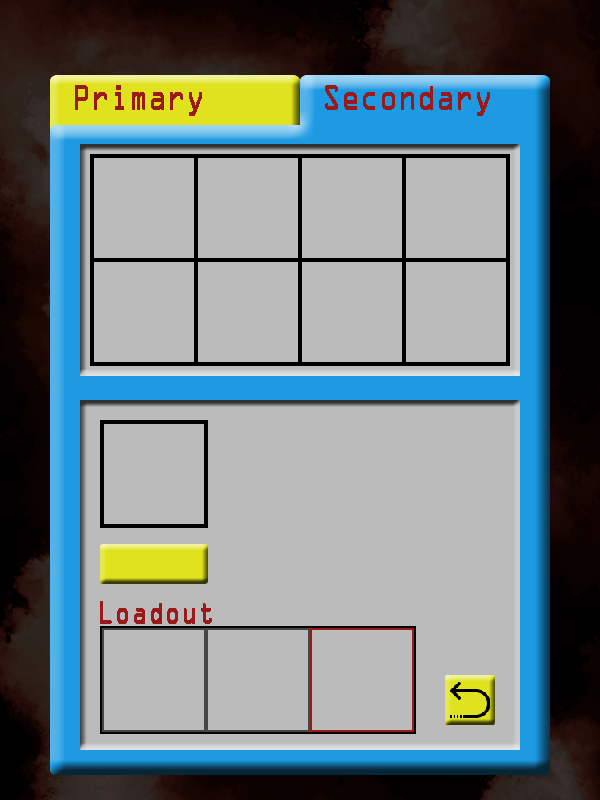
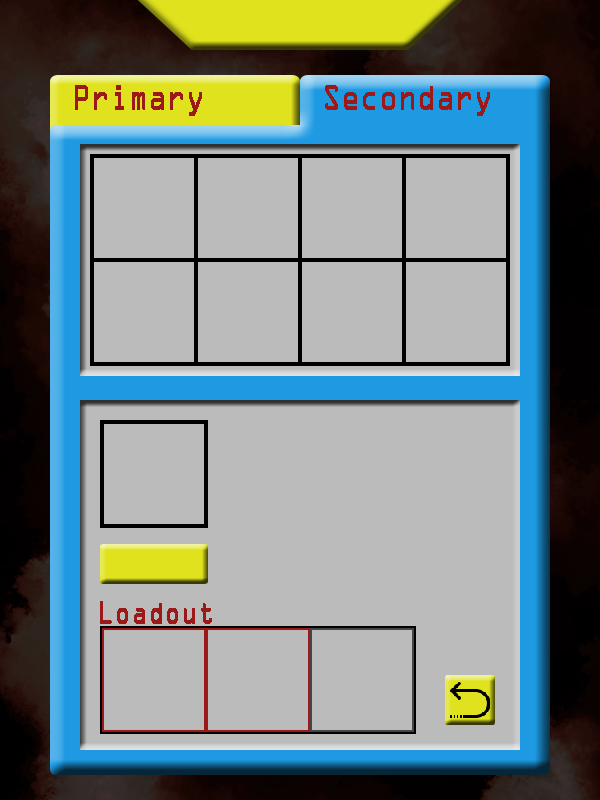
Eternity Quest (Loadout update)
Display gold in inventory menu
Loadout selection (for primary only)

diff --git a/js/eternityquest.js b/js/eternityquest.js
@@ -71,9 +71,11 @@ function init(){
     inventoryMenu.bgP = new Image();
     inventoryMenu.bgS = new Image();
     inventoryMenu.bgShop = new Image();
+    inventoryMenu.btnLoadout = new Image();
     assetManager.addAsset(inventoryMenu.bgP, "img/eternityquest/bg-inventory-p.png");
     assetManager.addAsset(inventoryMenu.bgS, "img/eternityquest/bg-inventory-s.png");
     assetManager.addAsset(inventoryMenu.bgShop, "img/eternityquest/bg-inventory-shop.png");
+    assetManager.addAsset(inventoryMenu.btnLoadout, "img/eternityquest/btn-loadout.png");
     
     weaponType = {
         PROJECTILE_BASIC: 0,
@@ -353,12 +355,12 @@ function Avatar(){
     this.deathStartTime;
     
     this.activeWeaponIndex;
-    this.loadout = [];
+    this.loadout = [null, null, null];
     this.inventoryP = [];
     this.inventoryS = [];
     
     this.cycleWeapons = function(){
-        if(activeWeaponIndex < this.inventory.length){
+        if(activeWeaponIndex < 1){
             activeWeaponIndex++;
         }
         else{
@@ -709,9 +711,11 @@ function InventoryMenu(){
     this.bgP;
     this.bgS;
     this.bgShop;
+    this.btnLoadout;
     this.tab = 1;
     this.selection = null;
     this.shopWindow = false;
+    this.goldXY = [300*sizeManager.factor, 30*sizeManager.factor];
     this.rectTab0 = [50*sizeManager.factor, 75*sizeManager.factor, 500*sizeManager.factor, 50*sizeManager.factor];
     this.rectTab1 = [50*sizeManager.factor, 75*sizeManager.factor, 250*sizeManager.factor, 50*sizeManager.factor];
     this.rectTab2 = [300*sizeManager.factor, 75*sizeManager.factor, 250*sizeManager.factor, 50*sizeManager.factor];
@@ -727,6 +731,20 @@ function InventoryMenu(){
     this.rectInfo = [104*sizeManager.factor, 424*sizeManager.factor];
     this.rectTxtX = 220*sizeManager.factor;
     this.rectTxtY = [434*sizeManager.factor, 460*sizeManager.factor, 485*sizeManager.factor, 510*sizeManager.factor, 535*sizeManager.factor];
+    this.rectLoad = [104*sizeManager.factor, 630*sizeManager.factor, 308*sizeManager.factor, 100*sizeManager.factor];
+    this.rectLoadX = [104*sizeManager.factor, 208*sizeManager.factor, 312*sizeManager.factor];
+    this.rectLoadY = 630*sizeManager.factor;
+    this.rectLoadW = 100*sizeManager.factor;
+    this.rectLoadBtn1R = [114*sizeManager.factor, 635*sizeManager.factor, 80*sizeManager.factor, 30*sizeManager.factor];
+    this.rectLoadBtn2R = [218*sizeManager.factor, 635*sizeManager.factor, 80*sizeManager.factor, 30*sizeManager.factor];
+    this.rectLoadBtn3R = [322*sizeManager.factor, 635*sizeManager.factor, 80*sizeManager.factor, 30*sizeManager.factor];
+    this.rectLoadBtn1E = [114*sizeManager.factor, 695*sizeManager.factor, 80*sizeManager.factor, 30*sizeManager.factor];
+    this.rectLoadBtn2E = [218*sizeManager.factor, 695*sizeManager.factor, 80*sizeManager.factor, 30*sizeManager.factor];
+    this.rectLoadBtn3E = [322*sizeManager.factor, 695*sizeManager.factor, 80*sizeManager.factor, 30*sizeManager.factor];
+    this.rectLoadBtnX = [114*sizeManager.factor, 218*sizeManager.factor, 322*sizeManager.factor, 114*sizeManager.factor, 218*sizeManager.factor, 322*sizeManager.factor];
+    this.rectLoadBtnY = [635*sizeManager.factor, 635*sizeManager.factor, 635*sizeManager.factor, 695*sizeManager.factor, 695*sizeManager.factor, 695*sizeManager.factor];
+    this.rectLoadBtnWH = [80*sizeManager.factor, 30*sizeManager.factor];
+    
     this.rectShopBack = [425*sizeManager.factor, 175*sizeManager.factor, 50*sizeManager.factor, 50*sizeManager.factor];
     this.rectShopIcon = [250*sizeManager.factor, 250*sizeManager.factor];
     this.rectShopTxtX = 300*sizeManager.factor;
@@ -754,6 +772,36 @@ function InventoryMenu(){
             }
         }
     };
+    this.loadoutEvent = function(i){
+        if(this.tab === 1){
+            switch (i){
+                case 0:
+                case 1:
+                    avatar.loadout[i] = null;
+                    break;
+                case 3:
+                case 4:
+                    if(avatar.inventoryP[this.selection] > 0){
+                        avatar.loadout[i-3] = weaponManager.weaponArrayP[this.selection];
+                        avatar.loadout[i-3].lvl = avatar.inventoryP[this.selection];
+                    }
+                    break;
+            }
+        }
+        else{
+            switch (i){
+                case 2:
+                    avatar.loadout[i] = null;
+                    break;
+                case 5:
+                    if(avatar.inventoryS[this.selection] > 0){
+                        avatar.loadout[i-3] = weaponManager.weaponArrayS[this.selection];
+                        avatar.loadout[i-3].lvl = avatar.inventoryS[this.selection];
+                    }
+                    break;
+            }
+        }
+    };
     this.manageClick = function(){
         //CHECK SHOP WINDOW
         if(this.shopWindow){
@@ -771,6 +819,11 @@ function InventoryMenu(){
             }
             if(ui.targetCollision(this.rectBtn)){
                 this.shopWindow = true;
+            }
+            for(var i = 0 ; i < 6 ; i++){
+                if(ui.targetCollision([this.rectLoadBtnX[i], this.rectLoadBtnY[i], this.rectLoadBtnWH[0], this.rectLoadBtnWH[1]])){
+                    this.loadoutEvent(i);
+                }
             }
         }
     };
@@ -819,17 +872,28 @@ function drawInventoryMenu(){
                         ctxTool.text("Tick Damage: " + weapon.tickDmg[weapon.lvl], inventoryMenu.rectTxtX, inventoryMenu.rectTxtY[2], 
                         "left", sizeManager.fontSizeXS, ctxTool.clrRed);
                         //TICK
-                        ctxTool.text("Tick: " + (1000/weapon.tickInterval[weapon.lvl]).toFixed(2) + "ms", inventoryMenu.rectTxtX, inventoryMenu.rectTxtY[3], 
+                        ctxTool.text("Tick: " + weapon.tickInterval[weapon.lvl] + "ms", inventoryMenu.rectTxtX, inventoryMenu.rectTxtY[3], 
                         "left", sizeManager.fontSizeXS, ctxTool.clrRed);
                         break;
                 }
                 //ctxTool.text("" + weapon.desc + "", inventoryMenu.rectTxtX, inventoryMenu.rectTxtY[3],"left", sizeManager.fontSizeXS, ctxTool.clrRed);
             }
         }
+        //LOADOUT
+        for(var i = 0 ; i < avatar.loadout.length ; i++){
+            var weapon = avatar.loadout[i];
+            if(weapon){
+                ctx.drawImage(weapon.icon, inventoryMenu.rectLoadX[i], inventoryMenu.rectLoadY, 
+                inventoryMenu.rectLoadW, inventoryMenu.rectLoadW);
+            }
+        }
     }
     else{
         ctx.drawImage(inventoryMenu.bgS, 0, 0, canvas.width, canvas.height);
     }
+    //GOLD
+    ctxTool.text("Gold: " + avatar.gold, inventoryMenu.goldXY[0], inventoryMenu.goldXY[1], 
+    "center", sizeManager.fontSizeS, ctxTool.clrRed);
         
     //CHECK SHOP WINDOW
     if(inventoryMenu.shopWindow){
@@ -837,8 +901,8 @@ function drawInventoryMenu(){
         //CHECK TAB
         if(inventoryMenu.tab === 1){
             var weapon = weaponManager.weaponArrayP[inventoryMenu.selection];
-            weapon.lvl = avatar.inventoryP[inventoryMenu.selection];
             if(weapon){
+                weapon.lvl = avatar.inventoryP[inventoryMenu.selection];
                 //ICON
                 ctx.drawImage(weapon.icon, inventoryMenu.rectShopIcon[0], inventoryMenu.rectShopIcon[0], 
                 inventoryMenu.rectItmW, inventoryMenu.rectItmW);
@@ -870,7 +934,7 @@ function drawInventoryMenu(){
                             ctxTool.text("Tick Damage: " + weapon.tickDmg[weapon.lvl], inventoryMenu.rectShopTxtX, inventoryMenu.rectShopTxtY[3], 
                             "center", sizeManager.fontSizeXS, ctxTool.clrBlack);
                             //TICK
-                            ctxTool.text("Tick: " + (1000/weapon.tickInterval[weapon.lvl]).toFixed(2) + "ms", inventoryMenu.rectShopTxtX, inventoryMenu.rectShopTxtY[4], 
+                            ctxTool.text("Tick: " + weapon.tickInterval[weapon.lvl] + "ms", inventoryMenu.rectShopTxtX, inventoryMenu.rectShopTxtY[4], 
                             "center", sizeManager.fontSizeXS, ctxTool.clrBlack);
                             break;
                     }
@@ -897,9 +961,9 @@ function drawInventoryMenu(){
                             ctxTool.text(" -> " + weapon.tickDmg[weapon.lvl+1], inventoryMenu.rectShopTxtX, inventoryMenu.rectShopTxtY[3], 
                             "left", sizeManager.fontSizeXS, ctxTool.clrRed);
                             //TICK
-                            ctxTool.text("Tick: " + (1000/weapon.tickInterval[weapon.lvl]).toFixed(2) + "ms", inventoryMenu.rectShopTxtX, inventoryMenu.rectShopTxtY[4], 
+                            ctxTool.text("Tick: " + weapon.tickInterval[weapon.lvl] + "ms", inventoryMenu.rectShopTxtX, inventoryMenu.rectShopTxtY[4], 
                             "right", sizeManager.fontSizeXS, ctxTool.clrBlack);
-                            ctxTool.text(" -> " + (1000/weapon.tickInterval[weapon.lvl+1]).toFixed(2) + "ms", inventoryMenu.rectShopTxtX, inventoryMenu.rectShopTxtY[4], 
+                            ctxTool.text(" -> " + weapon.tickInterval[weapon.lvl+1] + "ms", inventoryMenu.rectShopTxtX, inventoryMenu.rectShopTxtY[4], 
                             "left", sizeManager.fontSizeXS, ctxTool.clrRed);
                             break;
                     }
@@ -920,9 +984,27 @@ function drawInventoryMenu(){
     }
     else{
         //CHECK MOUSE TARGET COLLISIONS
+        if(ui.targetCollision(inventoryMenu.rectLoad)){
+            if(inventoryMenu.tab === 1){
+                ctx.drawImage(inventoryMenu.btnLoadout, inventoryMenu.rectLoadX[0], inventoryMenu.rectLoadY,
+                inventoryMenu.rectLoadW, inventoryMenu.rectLoadW);
+                ctx.drawImage(inventoryMenu.btnLoadout, inventoryMenu.rectLoadX[1], inventoryMenu.rectLoadY,
+                inventoryMenu.rectLoadW, inventoryMenu.rectLoadW);
+            }
+            else{
+                ctx.drawImage(inventoryMenu.btnLoadout, inventoryMenu.rectLoadX[2], inventoryMenu.rectLoadY,
+                inventoryMenu.rectLoadW, inventoryMenu.rectLoadW);
+            }
+        }
         if(ui.targetCollision(inventoryMenu.rectTab0) ||
            ui.targetCollision(inventoryMenu.rectMain) ||
            ui.targetCollision(inventoryMenu.rectBtn) ||
+           ui.targetCollision(inventoryMenu.rectLoadBtn1R) ||
+           ui.targetCollision(inventoryMenu.rectLoadBtn2R) ||
+           ui.targetCollision(inventoryMenu.rectLoadBtn3R) ||
+           ui.targetCollision(inventoryMenu.rectLoadBtn1E) ||
+           ui.targetCollision(inventoryMenu.rectLoadBtn2E) ||
+           ui.targetCollision(inventoryMenu.rectLoadBtn3E) ||
            ui.targetCollision(inventoryMenu.rectBack) ){
             canvas.style.cursor = "pointer";
         }
